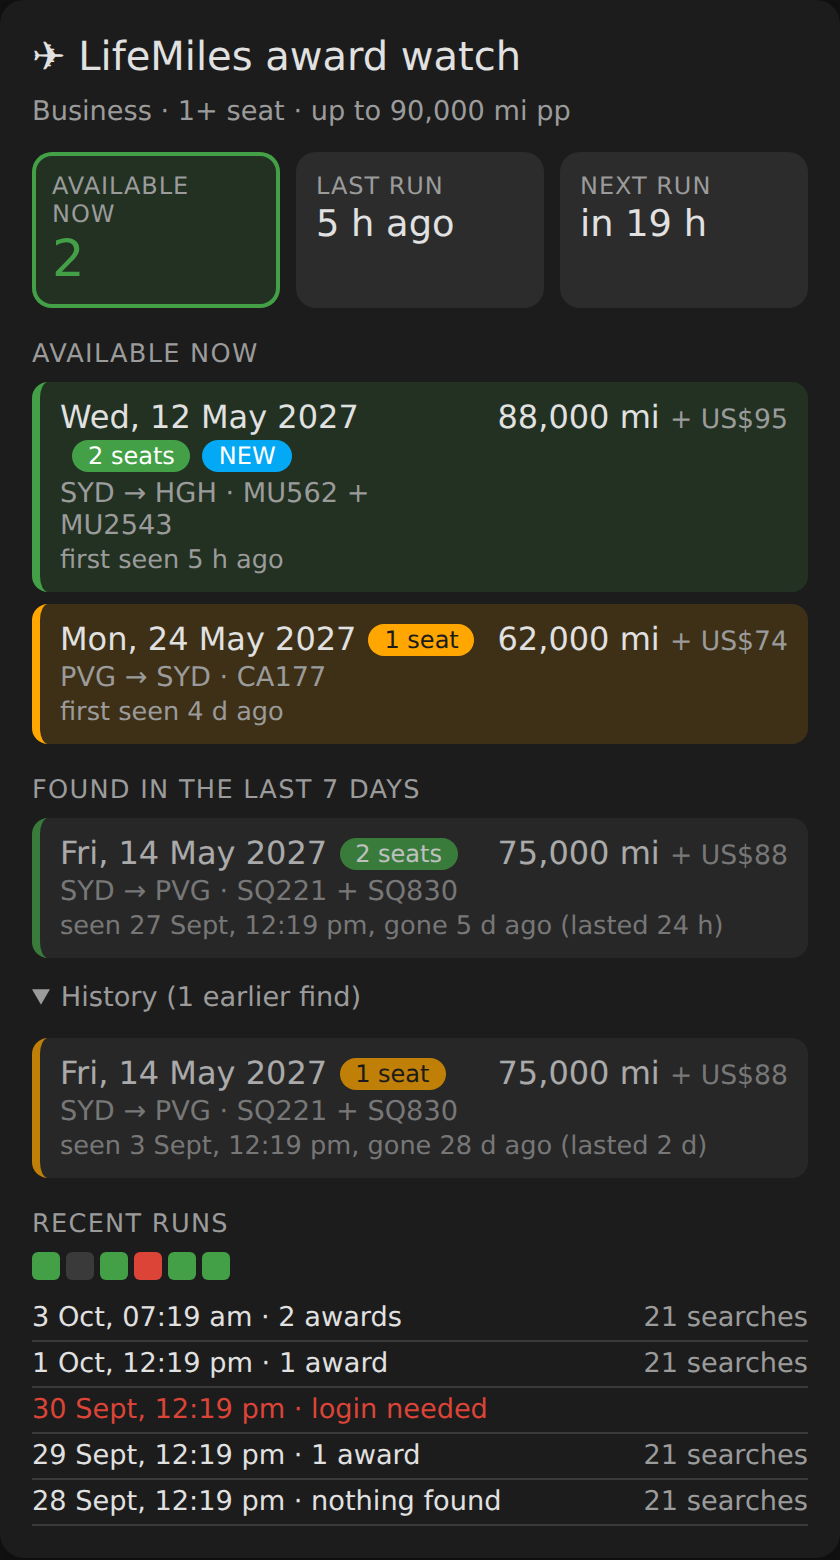
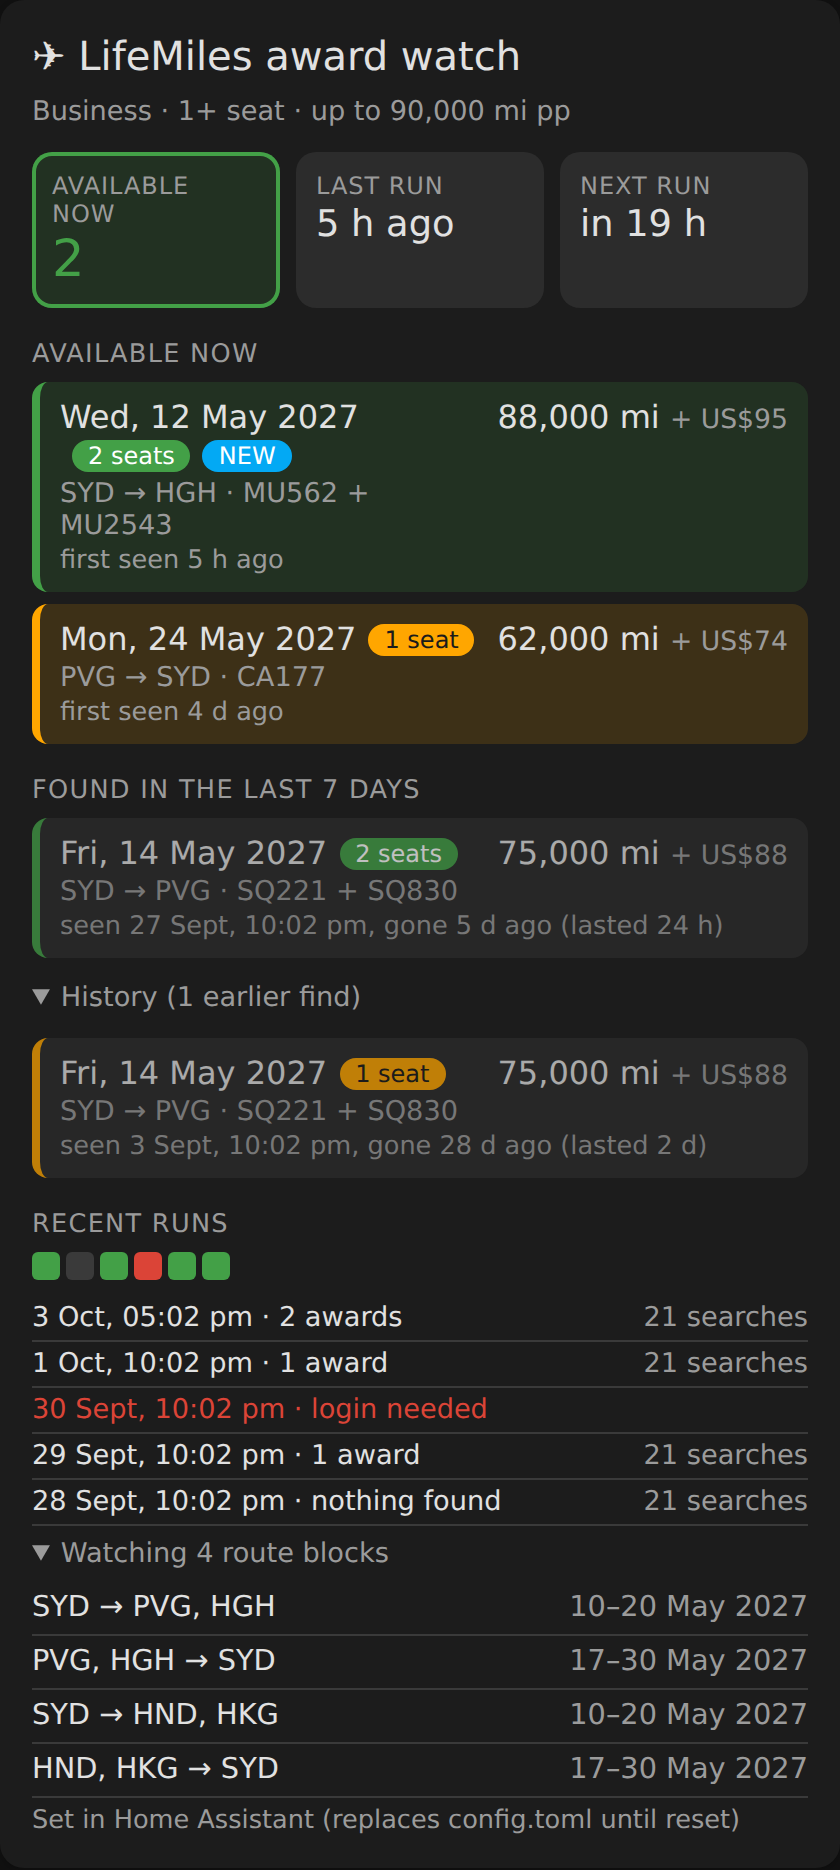
README and previews: the Watching section

diff --git a/README.md b/README.md
@@ -12,6 +12,8 @@ available **now**, what was found in the last week (even if it has since gone), 
 
 - Rows are coloured by seats: **green = 2 or more seats**, **amber = 1 seat**.
 - A **NEW** tag marks anything first seen in the last 24 hours.
+- A collapsible **Watching** section lists the routes and dates being searched, and whether that
+  list was set from Home Assistant or comes from the watcher's own config.
 - Colours come from your Home Assistant theme, so light and dark themes both work.
 - One file, no build step, no dependencies.
 
@@ -41,6 +43,7 @@ entity: sensor.lifemiles_watch
 | `recent_days` | `7` | how long a gone award still counts as "recent" |
 | `max_history` | `10` | older finds listed under "History" |
 | `max_runs` | `5` | runs listed under "Recent runs" |
+| `show_watches` | `true` | the "Watching" section; set `false` to hide it |
 
 ## The sensor
 
@@ -70,6 +73,8 @@ config               {pax, min_seats, max_miles_pp, interval_hours, watches: [..
 runs                 newest first: {at, ok, secs, attempts, errors, alerts, found, note?}
 current              {origin, dest, depart, flights, miles_pp, taxes_usd, seats, first_seen}
 history              the same plus gone_at, newest first
+config.watches       [{name, from: [codes], to: [codes], start, end}]; config.source is
+                     "home-assistant" or "config.toml" (shown as a note under Watching)
 ```
 
 Keep the attributes under Home Assistant's 16 KB limit (about 30 `history` entries is safe).
